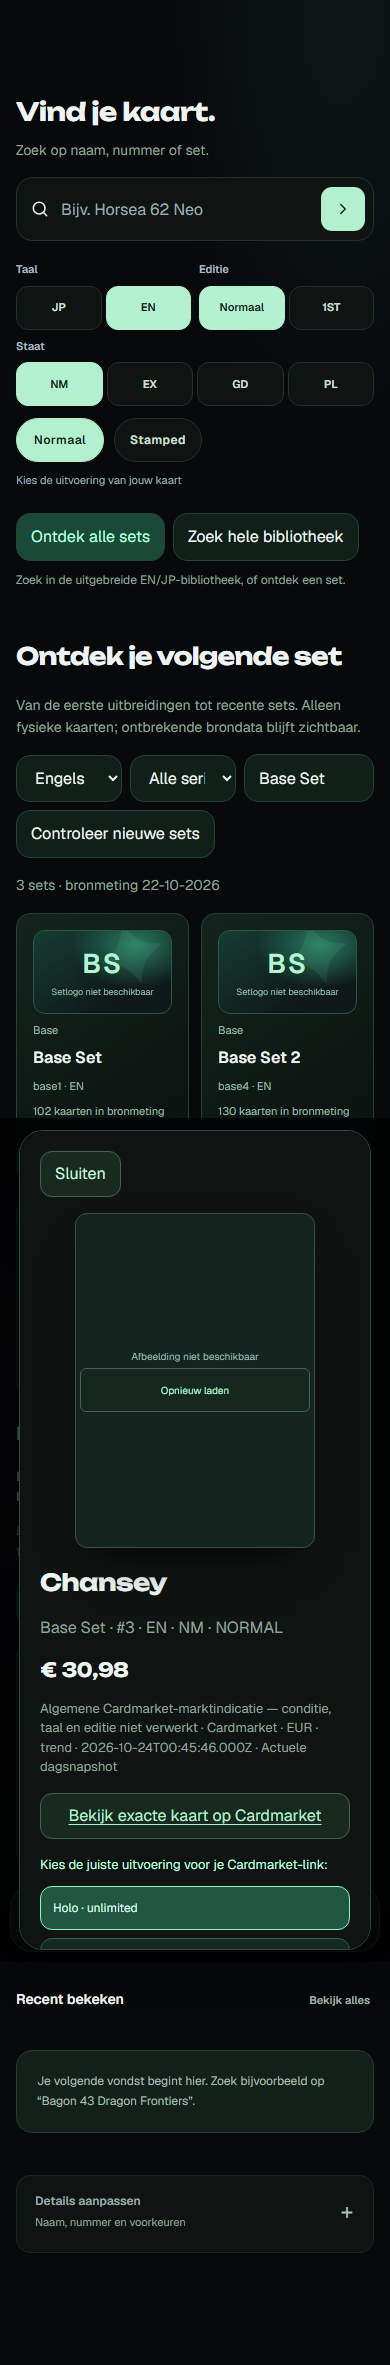
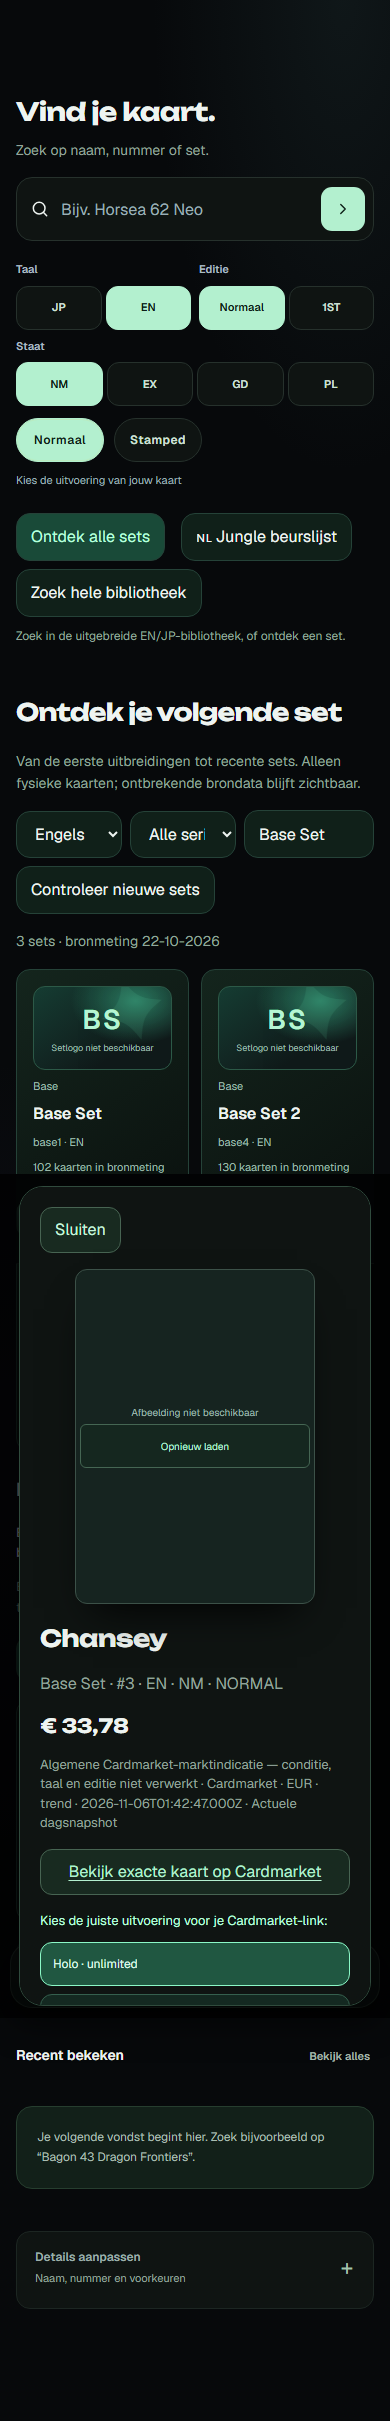
Preserve PWA shell coverage for NL Jungle

diff --git a/sw.js b/sw.js
@@ -1,10 +1,10 @@
 'use strict';
 // Bump this version when the shell changes. Never cache remote card data/artwork.
-const CACHE = 'rareworth-shell-v193-cardmarket-nm-prices';
+const CACHE = 'rareworth-shell-v242-nl-jungle';
 const SCOPE = new URL('./', self.registration.scope);
 const INDEX = new URL('index.html', SCOPE).href;
 const ASSETS = [
-  'library-v185.js', 'ui-library-v185.js', 'style-library-v185.css', 'catalog-sets-v185.json',
+  'library-v185.js', 'ui-library-v185.js', 'nl-jungle-v242.js?build=242-nl-en-jungle', 'style-library-v185.css', 'catalog-sets-v185.json',
   'index.html',
   'cardmarket-price-v186.js', 'cardmarket-feed-v186.js', 'cardmarket-production-v193.js', 'ui-market-v193.js',
   'style-v189-home.css?build=189-app-experience', 'ui-v189-home.js?build=189-app-experience',

diff --git a/docs/BRAND-V172.md b/docs/BRAND-V172.md
@@ -175,7 +175,7 @@ G = PWA/manifest; H = tests/docs. Multiple categories can apply within one file.
 | cloud-adapter-v170.js | B, C, D | 4, 7, 84 | no |
 | cloud-sync-v170.js | B, D | 6, 9, 148 | no |
 | data/jp-cardmarket-audit-v165.json | H | 4734, 10906, 14640, 14686, 27368, 27419, 27474, 27575, 27630, 27685, 27740, 27790, 27836, 27887, 27937, 27983, 28080, 28135, 28190, 28240, 28385, 28436, 28486, 28532, 31141, 31196, 33827, 33873, 33919, 33965, 34016, 37735, 38537, 38583, 38684, 38735, 38790, 38845, 38955, 39005, 39111, 39166, 39216, 39267 | no |
-| docs/BRAND-INVENTORY-V180.json | B, D, H | 9, 63, 306, 315, 342, 351, 360, 378, 387, 396, 405, 609, 612, 618, 621, 627, 636, 639, 645, 648, 654, 657, 663, 666, 672, 675, 681, 684, 690, 693, 699, 702, 720, 729, 1701, 1710, 1719, 1738, 4020, 4029, 4038, 4047, 4065, 4074, 4098, 4102, 4108, 4117, 4126, 4130, 4148, 4157, 4166, 4175, 4184, 4355, 4365, 4374, 4383, 4392, 4401, 4419, 4428, 4437, 4446, 4455, 4464, 4473, 4482, 4491, 4500, 4509, 4518, 4527, 4536, 4545, 4554, 4563, 4572, 4581, 4590, 4599, 4608, 4617, 4626, 4635, 4644, 4653, 4662, 4671, 4680, 4689, 4698, 4707, 4716, 4725, 4734, 4743, 4752, 4761, 4770, 4779, 4788, 4797, 4806, 4834, 4843, 4871, 4880, 4890, 4899, 4908, 4926, 4935, 4953, 4962, 4999, 5008, 5017, 5035, 5044, 5053, 5062, 5071, 5089, 5098, 5107, 5116, 5171, 5189, 5226, 5253, 5298, 5325, 5343, 5352, 5415, 5425, 5435, 5445, 5464, 5473, 5482, 5491, 5500, 5527, 5528, 5537, 5546, 5564, 5582, 5591, 5600, 5609, 5618, 5627, 5636, 5645, 5942, 5951, 5957, 5960, 5966, 5969, 5975, 5978, 5984, 5987, 5993, 5996, 6002, 6005, 6011, 6014, 6020, 6023, 6029, 6032, 6038, 6041, 6047, 6050, 6056, 6059, 6065, 6068, 6074, 6077, 6083, 6086, 6092, 6095, 6101, 6104, 6110, 6113, 6119, 6122, 6128, 6131, 6137, 6140, 6146, 6149, 6155, 6158, 6164, 6167, 6173, 6176, 6182, 6185, 6191, 6194, 6200, 6203, 6209, 6212, 6221, 6230, 6240, 6250, 6268, 6279, 6334, 6343, 6352, 6379, 6388, 6397, 6406, 6415, 6424, 6433, 6488, 6497, 6499, 6519, 6528, 6537, 6547, 6556, 6566, 6576, 6585, 6594, 6603, 6613, 6622, 6631, 6640, 6649, 6658, 6668, 6678, 6688, 6698, 6707, 6716, 6725, 6734, 6743, 6744, 6753, 6762, 6771, 6780, 6789, 6798, 6807, 6816, 6825, 6834, 6843, 6852, 6861, 6870, 6879, 6888, 6897, 6906, 6915, 6924, 6933, 6942, 6951, 6960, 6969, 6978, 6987, 6996, 7005, 7014, 7023, 7032, 7041, 7050, 7059, 7068, 7077, 7086, 7096, 7106, 7115, 7126, 7135, 7144, 7153, 7162, 7171, 7180, 7189, 7198, 7207, 7216, 7225, 7234, 7243, 7252, 7261, 7270, 7279, 7297, 7307, 7317, 7326, 7335, 7344, 7353, 7362, 7371, 7380, 7389, 7398, 7407, 7416, 7435, 7444, 7453, 7462, 7480, 7489, 7498, 7499, 7508, 7517, 7634, 7671, 7680, 7689, 7690, 7816, 7825, 7834, 7843, 7852, 7861, 7870, 7879, 7888, 7897, 7906, 7915, 7924, 7942, 7951, 7960, 7987, 8024, 8034, 8052, 8061, 8080, 8125, 8143, 8152, 8198, 8216, 8225, 8271, 8309, 8327, 8336, 8374, 8383, 8449, 8458, 8467, 8476, 8485, 8494, 8597, 8606, 8616, 8626, 8635, 8644, 8656, 8668, 8680, 8692, 8704, 8716, 8728, 8740, 8749, 8767, 8803, 8849, 8895, 8913, 8922, 8931, 8962, 8990, 9009, 9046, 9057, 9114, 9123, 9132, 9141, 9150, 9168, 9177, 9242, 9251, 9261, 9271, 9280, 9289, 9298, 9307, 9316, 9325, 9334, 9399, 9408, 9427, 9437, 9546, 9584, 9593, 9612, 9622, 9685, 9722, 9740, 9759, 9768, 9777, 9822, 9840, 9849, 9859, 9868, 9886, 9897, 9934, 9943, 9979, 10006, 10015, 10034, 10062, 10098, 10107, 10126, 10154, 10199, 10209, 10245, 10254, 10272, 10281, 10326, 10344, 10364, 10374, 10413, 10431, 10440, 10467, 10476, 10485, 10557, 10566, 10575, 10584, 11151, 11169, 11178, 11187, 11196, 11269, 11278, 11296, 11305, 11314, 11368 | no |
+| docs/BRAND-INVENTORY-V180.json | B, D, H | 9, 63, 306, 315, 342, 351, 360, 378, 387, 396, 405, 609, 612, 618, 621, 627, 636, 639, 645, 648, 654, 657, 663, 666, 672, 675, 681, 684, 690, 693, 699, 702, 720, 729, 1701, 1710, 1719, 1738, 4020, 4029, 4038, 4047, 4065, 4074, 4098, 4102, 4108, 4117, 4126, 4130, 4148, 4157, 4166, 4175, 4184, 4355, 4365, 4374, 4383, 4392, 4401, 4419, 4428, 4437, 4446, 4455, 4464, 4473, 4482, 4491, 4500, 4509, 4518, 4527, 4536, 4545, 4554, 4563, 4572, 4581, 4590, 4599, 4608, 4617, 4626, 4635, 4644, 4653, 4662, 4671, 4680, 4689, 4698, 4707, 4716, 4725, 4734, 4743, 4752, 4761, 4770, 4779, 4788, 4797, 4806, 4834, 4843, 4871, 4880, 4890, 4899, 4908, 4926, 4935, 4953, 4962, 4999, 5008, 5017, 5035, 5044, 5053, 5062, 5071, 5089, 5098, 5107, 5116, 5171, 5189, 5226, 5253, 5298, 5325, 5343, 5352, 5415, 5425, 5435, 5445, 5464, 5473, 5482, 5491, 5500, 5554, 5555, 5564, 5573, 5591, 5609, 5618, 5627, 5636, 5645, 5654, 5663, 5672, 5969, 5978, 5984, 5987, 5993, 5996, 6002, 6005, 6011, 6014, 6020, 6023, 6029, 6032, 6038, 6041, 6047, 6050, 6056, 6059, 6065, 6068, 6074, 6077, 6083, 6086, 6092, 6095, 6101, 6104, 6110, 6113, 6119, 6122, 6128, 6131, 6137, 6140, 6146, 6149, 6155, 6158, 6164, 6167, 6173, 6176, 6182, 6185, 6191, 6194, 6200, 6203, 6209, 6212, 6218, 6221, 6227, 6230, 6236, 6239, 6248, 6257, 6267, 6277, 6295, 6306, 6361, 6370, 6379, 6406, 6415, 6424, 6433, 6442, 6451, 6460, 6515, 6524, 6526, 6546, 6555, 6564, 6574, 6583, 6593, 6603, 6612, 6621, 6630, 6640, 6649, 6658, 6667, 6676, 6685, 6695, 6705, 6715, 6725, 6734, 6743, 6752, 6761, 6770, 6771, 6780, 6789, 6798, 6807, 6816, 6825, 6834, 6843, 6852, 6861, 6870, 6879, 6888, 6897, 6906, 6915, 6924, 6933, 6942, 6951, 6960, 6969, 6978, 6987, 6996, 7005, 7014, 7023, 7032, 7041, 7050, 7059, 7068, 7077, 7086, 7095, 7104, 7113, 7123, 7133, 7142, 7153, 7162, 7171, 7180, 7189, 7198, 7207, 7216, 7225, 7234, 7243, 7252, 7261, 7270, 7279, 7288, 7297, 7306, 7324, 7334, 7344, 7353, 7362, 7371, 7380, 7389, 7398, 7407, 7416, 7425, 7434, 7443, 7462, 7471, 7480, 7489, 7507, 7516, 7525, 7526, 7535, 7544, 7661, 7698, 7707, 7716, 7717, 7843, 7852, 7861, 7870, 7879, 7888, 7897, 7906, 7915, 7924, 7933, 7942, 7951, 7969, 7978, 7987, 8014, 8051, 8061, 8079, 8088, 8107, 8152, 8170, 8179, 8225, 8243, 8252, 8298, 8336, 8354, 8363, 8401, 8410, 8476, 8485, 8494, 8503, 8512, 8521, 8624, 8633, 8643, 8653, 8662, 8671, 8683, 8695, 8707, 8719, 8731, 8743, 8755, 8767, 8776, 8785, 8794, 8812, 8848, 8894, 8940, 8958, 8967, 8976, 9007, 9035, 9054, 9091, 9102, 9159, 9168, 9177, 9186, 9195, 9213, 9222, 9287, 9296, 9306, 9316, 9325, 9334, 9343, 9352, 9361, 9370, 9379, 9444, 9453, 9472, 9482, 9591, 9629, 9638, 9657, 9667, 9730, 9767, 9785, 9804, 9813, 9822, 9867, 9885, 9894, 9904, 9913, 9931, 9942, 9979, 9988, 10024, 10051, 10060, 10079, 10107, 10143, 10152, 10171, 10199, 10244, 10254, 10290, 10299, 10317, 10326, 10371, 10389, 10409, 10419, 10458, 10476, 10485, 10512, 10521, 10530, 10602, 10611, 10620, 10629, 11196, 11214, 11223, 11232, 11241, 11314, 11323, 11341, 11350, 11359, 11413 | no |
 | docs/BRAND-V173.md | B, C, D, E, H | 3, 5, 13, 14, 15, 16, 17, 26, 32, 57, 62 | no |
 | docs/CARDMARKET-HOST-V174-1.md | B, C, H | 13 | no |
 | docs/CLOUD-SYNC-V170.md | B, C, D, H | 1, 3, 12, 38, 62, 87, 123, 164, 178, 192, 203 | no |
@@ -227,7 +227,7 @@ G = PWA/manifest; H = tests/docs. Multiple categories can apply within one file.
 | tests/fixtures/integration-scope-v181.json | B, H | 58, 59 | no |
 | tests/fixtures/library-scope-v185.json | B, H | 18, 19, 24, 25 | no |
 | tests/fixtures/parity-scope-v182.json | B, C, D, E, F, H | 49, 88, 89, 108, 109, 114, 115, 118, 119, 122, 123, 126, 127 | no |
-| tests/fixtures/v193-scope.json | B, H | 24, 25 | no |
+| tests/fixtures/v193-scope.json | B, H | 28, 29, 36, 37 | no |
 | tests/guest-context-v171.cjs | B, C, H | 11 | no |
 | tests/history-browser-v183.test.cjs | E, H | 7 | no |
 | tests/history-component-v185.test.cjs | E, H | 8 | no |
@@ -248,7 +248,7 @@ G = PWA/manifest; H = tests/docs. Multiple categories can apply within one file.
 | tests/portfolio-insights-browser-v178.test.cjs | B, C, E, H | 8, 9, 17, 46 | no |
 | tests/price-freshness-component-v185.test.cjs | B, C, H | 17 | no |
 | tests/product-shell-v168.test.cjs | H | 18 | no |
-| tests/pwa-v169.test.cjs | B, E, F, H | 24, 27, 40, 43, 108, 133, 142, 143, 183, 195, 196, 202 | no |
+| tests/pwa-v169.test.cjs | B, E, F, H | 24, 27, 40, 43, 108, 133, 142, 143, 184, 197, 198, 204 | no |
 | tests/rebrand-scope-v173.cjs | B, H | 7, 8 | no |
 | tests/v191-scope.cjs | B, H | 8, 9 | no |
 | tests/v192-scope.cjs | B, H | 8, 9 | no |
